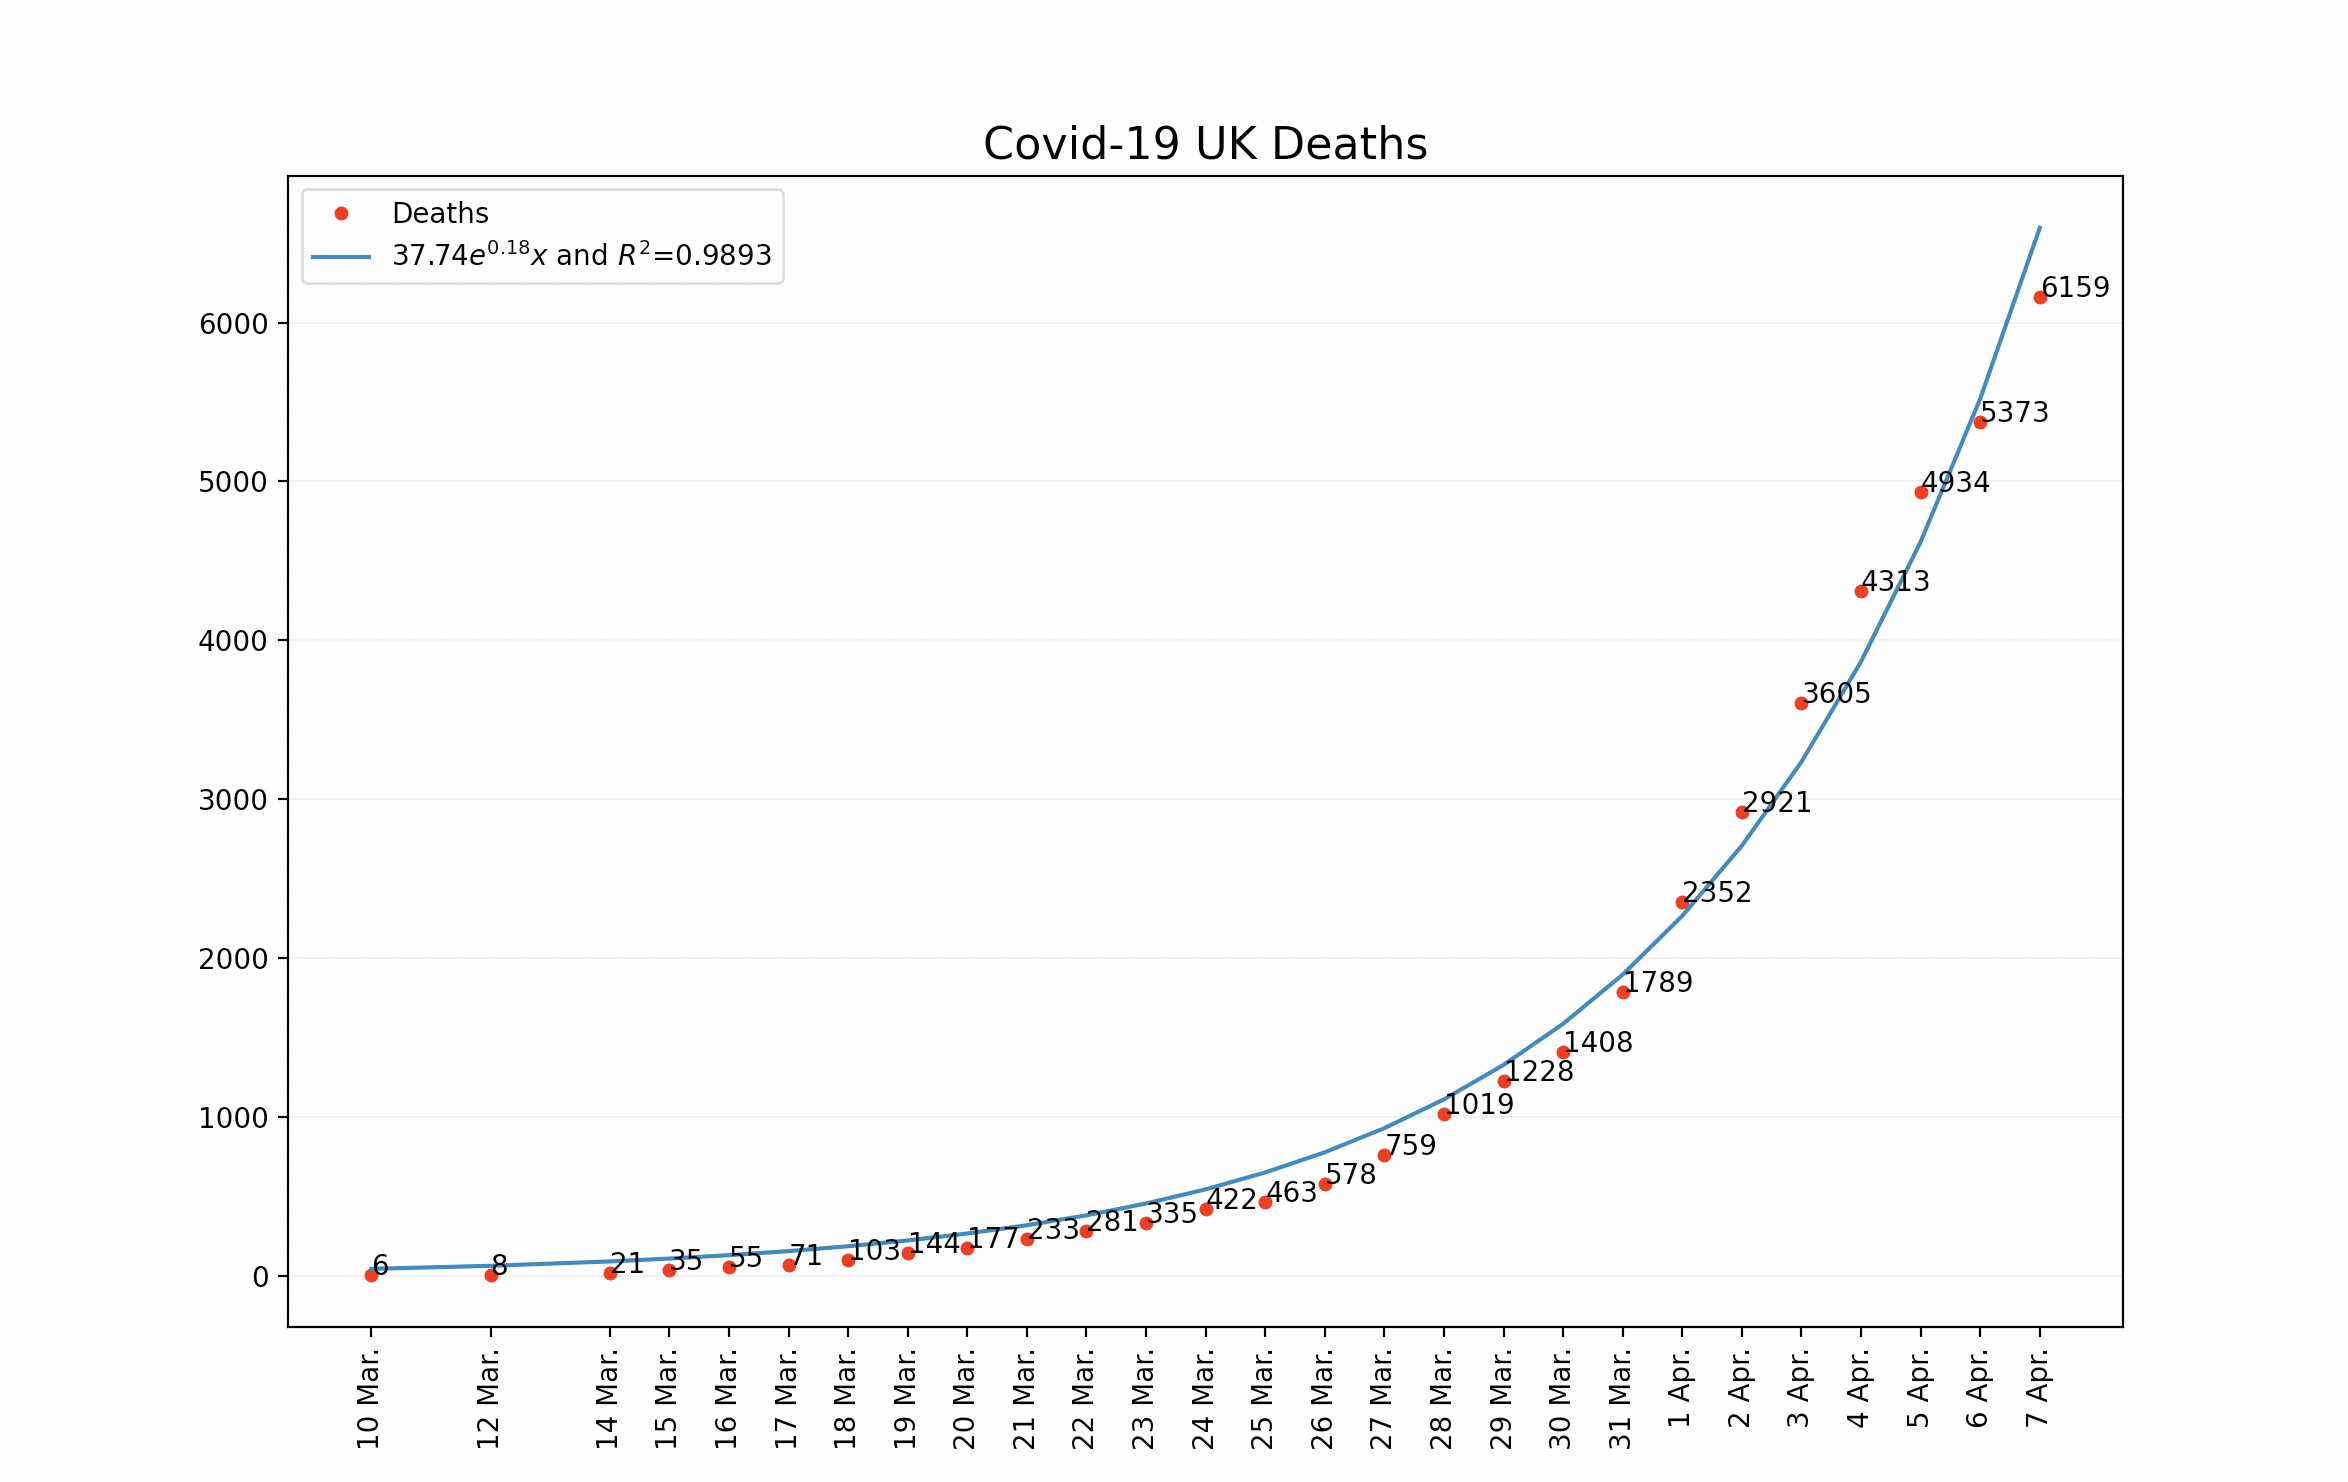
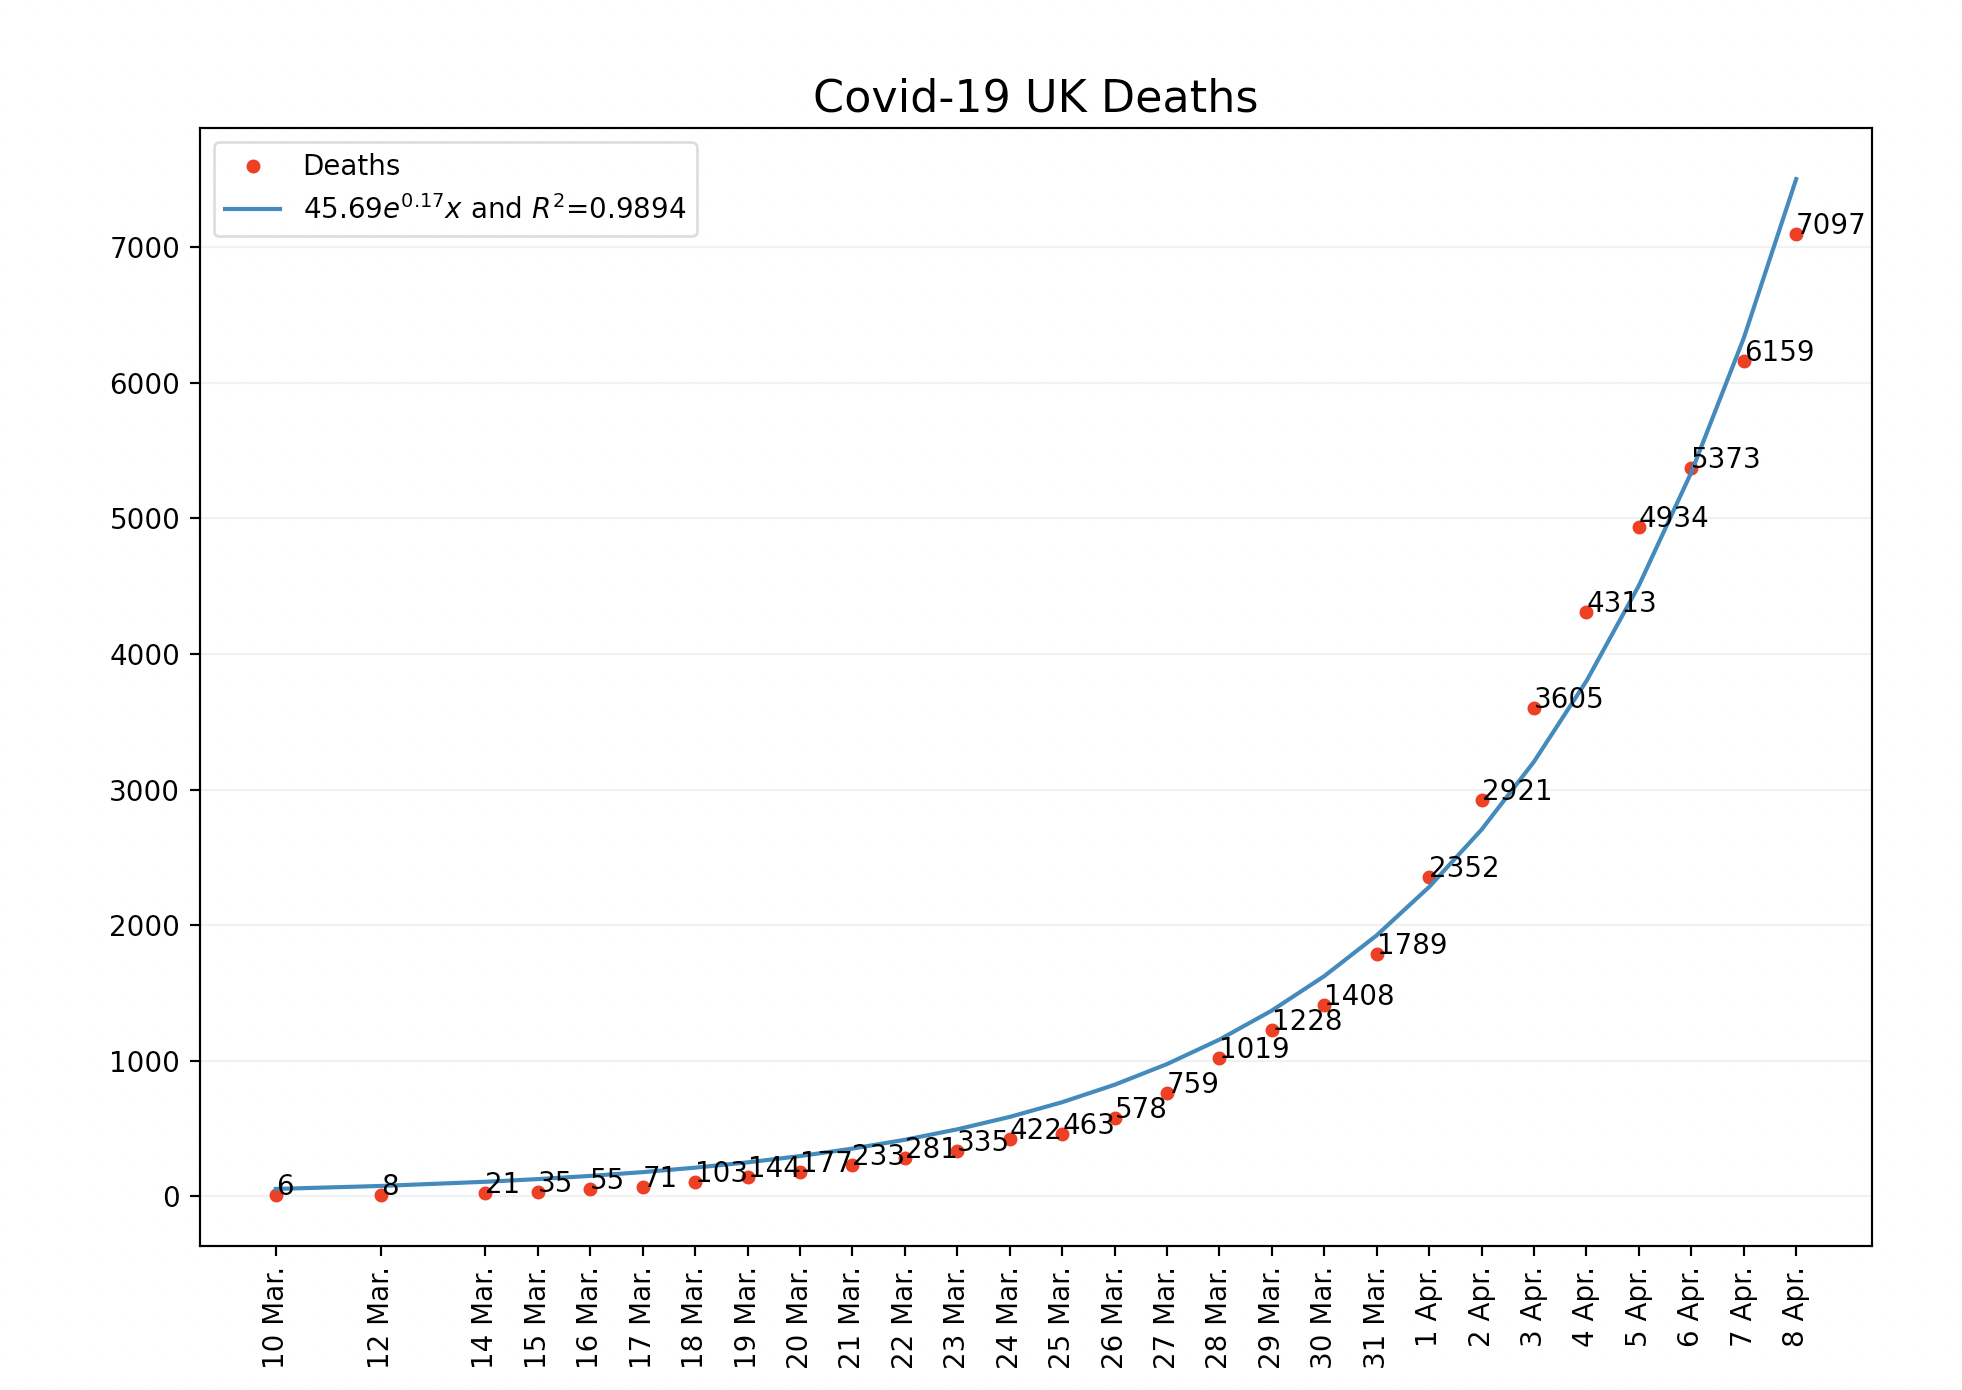
Adds data for 8th April

diff --git a/plot.py b/plot.py
@@ -4,48 +4,54 @@ from scipy.optimize import curve_fit
 
 
 y = np.array([
+    # Deaths
     6, 8, 21, 35, 55, 71, 103, 144, 177, 233, 281, 335, 422, 463,
-    578, 759, 1019, 1228, 1408, 1789, 2352, 2921, 3605, 4313, 4934, 5373, 6159,
+    578, 759, 1019, 1228, 1408, 1789, 2352, 2921, 3605, 4313, 4934,
+    5373, 6159, 7097
 ])
 
 x = np.array([
+    # Day
     1, 3, 5, 6, 7, 8, 9, 10, 11, 12, 13, 14, 15, 16, 17, 18, 19, 20, 21,
-    22, 23, 24, 25, 26, 27, 28, 29
+    22, 23, 24, 25, 26, 27, 28, 29, 30
 ])
 
 labels = [
+    # Labels corresponding to each day
     '10 Mar.', '12 Mar.', '14 Mar.', '15 Mar.', '16 Mar.', '17 Mar.',
     '18 Mar.', '19 Mar.', '20 Mar.', '21 Mar.', '22 Mar.', '23 Mar.',
     '24 Mar.', '25 Mar.', '26 Mar.', '27 Mar.', '28 Mar.', '29 Mar.',
     '30 Mar.', '31 Mar.', '1 Apr.', '2 Apr.', '3 Apr.', '4 Apr.',
-    '5 Apr.', '6 Apr.', '7 Apr.',
+    '5 Apr.', '6 Apr.', '7 Apr.', '8 Apr.'
 ]
 
+# ensure we have the correct number of points
+assert(len(y) == len(x) == len(labels))
 
-def func(x, a, b):
+
+def exponential_func(x, a, b):
     return a * np.exp(b * x)
 
 
-popt, pcov = curve_fit(func, x, y)
-perr = np.sqrt(np.diag(pcov))
+popt, pcov = curve_fit(exponential_func, x, y)
 
 
 # work out R^2
-def fitfunc(x):
+def fit_function(x):
     return popt[0] * np.exp(popt[1] * x)
 
 
-residuals = y - fitfunc(x)
+residuals = y - fit_function(x)
 ss_res = np.sum(residuals**2)
 ss_tot = np.sum((y - np.mean(y))**2)
 r_squared = 1 - (ss_res / ss_tot)
 
 
+# Plot
 plt.title(f'Covid-19 UK Deaths', fontsize=16)
-
 plt.plot(x, y, 'ro', label="Deaths", marker='o', markersize='4')
 plt.plot(
-    x, func(x, *popt),
+    x, exponential_func(x, *popt),
     label=r'${a}e^{b}$ and $R^2$={r_squared}'.format(
         a=round(popt[0], 2),
         b='{' + str(round(popt[1], 2)) + '}x',
@@ -53,6 +59,7 @@ plt.plot(
     )
 )
 
+# Annotate each point with its value
 for a, b in zip(x, y):
     plt.text(a, b, str(b), fontsize=10, color='black')
 

diff --git a/README.md b/README.md
@@ -9,6 +9,6 @@ pip install -r requirements.txt
 python plot.py
 ```
 
-## Latest plot (7th April)
+## Latest plot (8th April)
 
 ![Image description](https://github.com/zsoobhan/covid/blob/master/latest.png)
